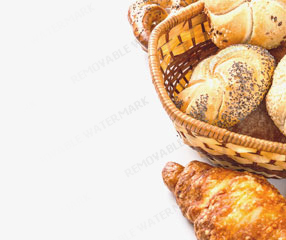
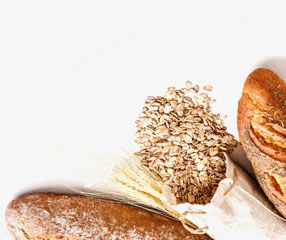
Pozadina na jumbotronu promenjena

diff --git a/index.html b/index.html
@@ -117,14 +117,14 @@
     <article class="dostava-kontakt text-center">
       <div class="container">
         <div class="row">
-          <div class="col-lg-6 col-md-6 col-sm-6 col-xs-12">
+          <div class="col-lg-6 col-md-6 col-sm-12 col-xs-12">
             <div class="dostava-box">
               <h1>Dostava</h1>
               <p>Vršimo usluge dostave</p>
               <a class="btn btn-default btn-lg" href="kontakt.html#dostava" role="button" title="Saznajte više o dostavi">Saznajte više <span class="glyphicon glyphicon-menu-right" aria-hidden="true"></span></a>
             </div><!-- dostava-box -->
           </div><!-- columns -->
-          <div class="col-lg-6 col-md-6 col-sm-6 col-xs-12">
+          <div class="col-lg-6 col-md-6 col-sm-12 col-xs-12">
             <div class="kontakt-box">
               <h1>Kontakt</h1>
               <p>Možete nas uvek kontaktirati</p>

diff --git a/css/pekaracss.css b/css/pekaracss.css
@@ -136,7 +136,7 @@ blockquote {
 	overflow: hidden;
 	min-height: 500px;
 	margin-bottom: 40px;
-	background-image: url('../images/bg.jpg');
+	background-image: url('../images/bg-1.jpg');
 	background-size: 100%;
 }
 .title {
@@ -186,7 +186,7 @@ blockquote {
 	font-style: italic;
 }
 .slogan-manji {
-	margin-bottom: 20px;
+	margin-bottom: 0;
 	color: #333;
 	font-weight: normal;
 	font-family: 'Book Antiqua', serif;
@@ -194,7 +194,7 @@ blockquote {
 }
 .dobrodosli-text {
 	font-size: 1em;
-	margin-top: 0px;
+	margin-top: 20px;
 }
 /* 	=============
 	proizvodi  */
